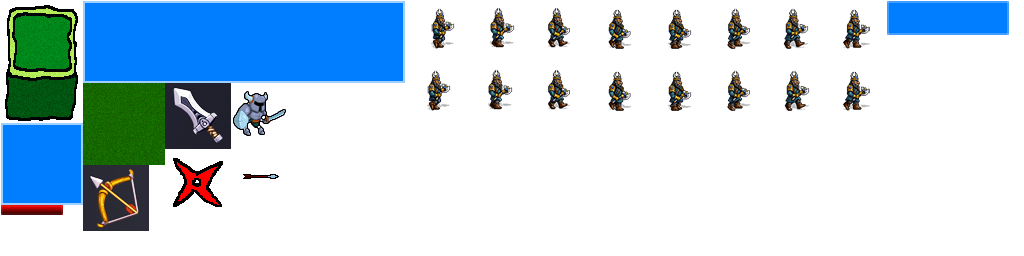
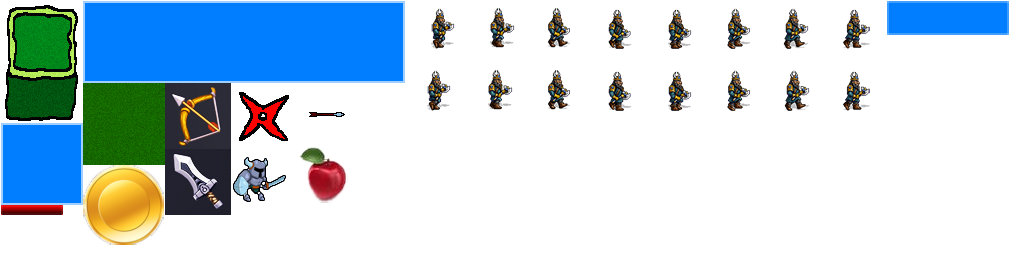
create homework lesson 6
create homework lesson 6

Changed region(s): [[0.0625, 0.3438, 0.3438, 0.9688]]

diff --git a/GeekBrainsRPGGame_libGDX/core/src/com/geekbrains/rpg/game/screens/GameScreen.java b/GeekBrainsRPGGame_libGDX/core/src/com/geekbrains/rpg/game/screens/GameScreen.java
@@ -1,12 +1,22 @@
 package com.geekbrains.rpg.game.screens;
 
+import com.badlogic.gdx.Gdx;
+import com.badlogic.gdx.graphics.g2d.BitmapFont;
 import com.badlogic.gdx.graphics.g2d.SpriteBatch;
+import com.badlogic.gdx.scenes.scene2d.InputEvent;
+import com.badlogic.gdx.scenes.scene2d.Stage;
+import com.badlogic.gdx.scenes.scene2d.ui.Skin;
+import com.badlogic.gdx.scenes.scene2d.ui.TextButton;
+import com.badlogic.gdx.scenes.scene2d.utils.ClickListener;
 import com.geekbrains.rpg.game.logic.GameController;
 import com.geekbrains.rpg.game.logic.WorldRenderer;
+import com.geekbrains.rpg.game.screens.utils.Assets;
 
 public class GameScreen extends AbstractScreen {
+    private Stage stage;
     private GameController gc;
     private WorldRenderer worldRenderer;
+    private boolean pressPause;
 
     public GameScreen(SpriteBatch batch) {
         super(batch);
@@ -16,11 +26,68 @@ public class GameScreen extends AbstractScreen {
     public void show() {
         gc = new GameController();
         worldRenderer = new WorldRenderer(gc, batch);
+        createGui();
+        pressPause = false;
     }
 
     @Override
     public void render(float delta) {
         gc.update(delta);
         worldRenderer.render();
+        stage.draw();
+    }
+
+    @Override
+    public void pause(){
+        if (!pressPause) {
+            Gdx.graphics.setContinuousRendering(false);
+            Gdx.graphics.requestRendering();
+            pressPause = true;
+        } else {
+            Gdx.graphics.setContinuousRendering(true);
+            Gdx.graphics.requestRendering();
+            pressPause = false;
+        }
+
+    }
+
+    @Override
+    public void resume(){
+        Gdx.graphics.setContinuousRendering(true);
+        Gdx.graphics.requestRendering();
+    }
+
+    public void createGui() {
+        stage = new Stage();
+        Gdx.input.setInputProcessor(stage);
+        Skin skin = new Skin();
+        skin.addRegions(Assets.getInstance().getAtlas());
+
+        BitmapFont font14 = Assets.getInstance().getAssetManager().get("fonts/font24.ttf");
+        TextButton.TextButtonStyle menuBtnStyle = new TextButton.TextButtonStyle(
+                skin.getDrawable("shortButton"), null, null, font14);
+
+        TextButton btnPause = new TextButton("Pause", menuBtnStyle);
+        btnPause.setPosition(800, 600);
+        TextButton btnExitGame = new TextButton("Exit", menuBtnStyle);
+        btnExitGame.setPosition(900, 600);
+
+        btnPause.addListener(new ClickListener() {
+            @Override
+            public void clicked(InputEvent event, float x, float y) {
+                pause();
+            }
+        });
+
+        btnExitGame.addListener(new ClickListener() {
+            @Override
+            public void clicked(InputEvent event, float x, float y) {
+                Gdx.app.exit();
+            }
+        });
+
+        stage.addActor(btnPause);
+        stage.addActor(btnExitGame);
+        skin.dispose();
     }
 }

diff --git a/GeekBrainsRPGGame_libGDX/core/src/com/geekbrains/rpg/game/GeekRpgGame.java b/GeekBrainsRPGGame_libGDX/core/src/com/geekbrains/rpg/game/GeekRpgGame.java
@@ -11,28 +11,14 @@ public class GeekRpgGame extends Game {
 
 	// Домашнее задание:
 	// - Разбор кода и пишите какие вопросы возникли
-	// - Добавить класс Weapon (оружие) и раздать каждому персонажу по оружию
-	// Оружие определяет тип бойца - ближний/дальний бой. Свойства оружия:
-	// дальность атаки, урон, скорость атаки
-	// - * Из монстров может выпадать оружие (рисуем картинку оружия), которое
-	// подбирается как монстрами, так и героем, заменяя имеющееся
+	// - На экране игры добавьте Stage и сделайте две кнопки:
+	// пауза и выход в меню
+	// - Сделайте полезные выпадающие вещи (бутыль со здоровьем,
+	// монеты)
 
-    /*
-    Валентин Изотов
-- У всех персонажей (герой, монстр) есть опыт, жизни, стартовый урон, стартовая броня (0), стартовая скорость.
-    Валентин Изотов
-- у всех персонажей есть ячейки шмота: оружие, нагрудник, штаны, сапоги. шлем, перчатки (пустые по умолчанию)
-    Валентин Изотов
-- все могут подбирать любой шмот, но можно иметь только одну шмотку каждого вида
-    Валентин Изотов
-- у шмота есть рандомные статы с определенной вероятностью - при смерти выпадает все
-    Валентин Изотов
-- если монстр натыкается на шмотку. то подбирает ее, если на нем шмотка, то он ее сравнивает и надевает лучшую, а снятую оставляет
-    Валентин Изотов
-- монсты разных видов враждуют - если монстр убил, другого, то он получает за него опыт, сравнивает шмотки, одевает лучшее. забирает золото
-    Валентин Изотов
-- если монстр убил героя, то он получает за него опыт, сравнивает шмотки, одевает лучшее. забирает золото
-     */
+	// НЕ УСПЕЛ РЕАЛИЗОВАТЬ:
+	// пауза отрабатывает не совсем коректно
+	// не появляется яблоко, монета на экране
 
 	@Override
 	public void create() {

diff --git a/GeekBrainsRPGGame_libGDX/core/src/com/geekbrains/rpg/game/logic/UsefullThings.java b/GeekBrainsRPGGame_libGDX/core/src/com/geekbrains/rpg/game/logic/UsefullThings.java
@@ -1,0 +1,63 @@
+package com.geekbrains.rpg.game.logic;
+
+import com.badlogic.gdx.graphics.g2d.BitmapFont;
+import com.badlogic.gdx.graphics.g2d.SpriteBatch;
+import com.badlogic.gdx.graphics.g2d.TextureRegion;
+import com.badlogic.gdx.math.MathUtils;
+import com.badlogic.gdx.math.Vector2;
+import com.geekbrains.rpg.game.logic.utils.Consumable;
+import com.geekbrains.rpg.game.logic.utils.MapElement;
+import com.geekbrains.rpg.game.logic.utils.Poolable;
+import com.geekbrains.rpg.game.screens.utils.Assets;
+
+public class UsefullThings implements MapElement, Poolable, Consumable {
+    private Vector2 position;
+    private TextureRegion texture;
+    private boolean active;
+
+    public UsefullThings() {
+        this.position = new Vector2(0, 0);
+    }
+
+    public void setPosition(float x, float y) {
+        this.position.set(x, y);
+    }
+
+    public Vector2 getPosition() {
+        return position;
+    }
+
+    public void setup() {
+        if (MathUtils.random(1,2) == 1) {
+            this.texture = Assets.getInstance().getAtlas().findRegion("coin");
+        } else {
+            texture = Assets.getInstance().getAtlas().findRegion("apple");
+        }
+    }
+
+    @Override
+    public void consume(GameCharacter gameCharacter) {
+        gameCharacter.setHp(gameCharacter.getHpMax());
+        active = true;
+    }
+
+    @Override
+    public void render(SpriteBatch batch, BitmapFont font) {
+        batch.draw(texture, position.x - 32*2, position.y - 32*2);
+    }
+
+    @Override
+    public int getCellX() {
+        return (int) (position.x / 80);
+    }
+
+    @Override
+    public int getCellY() {
+        return (int) (position.y / 80);
+    }
+
+    @Override
+    public boolean isActive() {
+        return active;
+    }
+}

diff --git a/GeekBrainsRPGGame_libGDX/core/src/com/geekbrains/rpg/game/logic/GameController.java b/GeekBrainsRPGGame_libGDX/core/src/com/geekbrains/rpg/game/logic/GameController.java
@@ -10,6 +10,7 @@ public class GameController {
     private ProjectilesController projectilesController;
     private MonstersController monstersController;
     private WeaponsController weaponsController;
+    private UsefullThingsController usefullThingsController;
     private List<GameCharacter> allCharacters;
     private Map map;
     private Hero hero;
@@ -39,10 +40,15 @@ public class GameController {
         return weaponsController;
     }
 
+    public UsefullThingsController getUsefullThingsController() {
+        return usefullThingsController;
+    }
+
     public GameController() {
         this.allCharacters = new ArrayList<>();
         this.projectilesController = new ProjectilesController();
         this.weaponsController = new WeaponsController(this);
+        this.usefullThingsController = new UsefullThingsController(this);
         this.hero = new Hero(this);
         this.map = new Map();
         this.monstersController = new MonstersController(this, 5);
@@ -60,6 +66,7 @@ public class GameController {
         checkCollisions();
         projectilesController.update(dt);
         weaponsController.update(dt);
+        usefullThingsController.update(dt);
     }
 
     public void collideUnits(GameCharacter u1, GameCharacter u2) {
@@ -96,7 +103,7 @@ public class GameController {
         for (int i = 0; i < weaponsController.getActiveList().size(); i++) {
             Weapon w = weaponsController.getActiveList().get(i);
             if (hero.getPosition().dst(w.getPosition()) < 20) {
-                w.consume(hero);
+                w.consume(hero);//подобрали оружие
             }
         }
 

diff --git a/GeekBrainsRPGGame_libGDX/core/src/com/geekbrains/rpg/game/screens/utils/Assets.java b/GeekBrainsRPGGame_libGDX/core/src/com/geekbrains/rpg/game/screens/utils/Assets.java
@@ -12,7 +12,7 @@ import com.badlogic.gdx.graphics.g2d.freetype.FreetypeFontLoader;
 import com.geekbrains.rpg.game.screens.ScreenManager;
 
 public class Assets {
-    private static final Assets ourInstance = new Assets();
+    private static final Assets ourInstance = new Assets(); // экземпляр
 
     public static Assets getInstance() {
         return ourInstance;
@@ -37,12 +37,13 @@ public class Assets {
         switch (type) {
             case MENU:
                 assetManager.load("images/game.pack", TextureAtlas.class);
-                createStandardFont(14);
                 createStandardFont(24);
                 createStandardFont(72);
                 break;
             case GAME:
                 assetManager.load("images/game.pack", TextureAtlas.class);
+                createStandardFont(14);
+                createStandardFont(24);
                 createStandardFont(32);
                 break;
         }

diff --git a/GeekBrainsRPGGame_libGDX/core/src/com/geekbrains/rpg/game/logic/UsefullThingsController.java b/GeekBrainsRPGGame_libGDX/core/src/com/geekbrains/rpg/game/logic/UsefullThingsController.java
@@ -1,0 +1,28 @@
+package com.geekbrains.rpg.game.logic;
+
+import com.geekbrains.rpg.game.logic.utils.ObjectPool;
+
+public class UsefullThingsController extends ObjectPool<UsefullThings> {
+    private GameController gc;
+
+    @Override
+    protected UsefullThings newObject() {
+        return new UsefullThings();
+    }
+
+    public UsefullThingsController(GameController gc) {
+        this.gc = gc;
+    }
+
+    public void setup(float x, float y) {
+        UsefullThings u = getActiveElement();
+
+        u.setup();
+        u.setPosition(x, y);
+    }
+
+    public void update(float dt) {
+        checkPool();
+    }
+
+}

diff --git a/GeekBrainsRPGGame_libGDX/core/src/com/geekbrains/rpg/game/logic/Monster.java b/GeekBrainsRPGGame_libGDX/core/src/com/geekbrains/rpg/game/logic/Monster.java
@@ -38,6 +38,7 @@ public class Monster extends GameCharacter implements Poolable {
     public void onDeath() {
         super.onDeath();
         gc.getWeaponsController().setup(position.x, position.y);
+        gc.getUsefullThingsController().setup(position.x, position.y);
     }
 
     @Override

diff --git a/GeekBrainsRPGGame_libGDX/core/src/com/geekbrains/rpg/game/logic/GameCharacter.java b/GeekBrainsRPGGame_libGDX/core/src/com/geekbrains/rpg/game/logic/GameCharacter.java
@@ -176,4 +176,13 @@ public abstract class GameCharacter implements MapElement {
             }
         }
     }
+
+    public void setHp(int hp) {
+        this.hp = hp;
+    }
+
+    public int getHpMax() {
+        return hpMax;
+    }
 }
+
